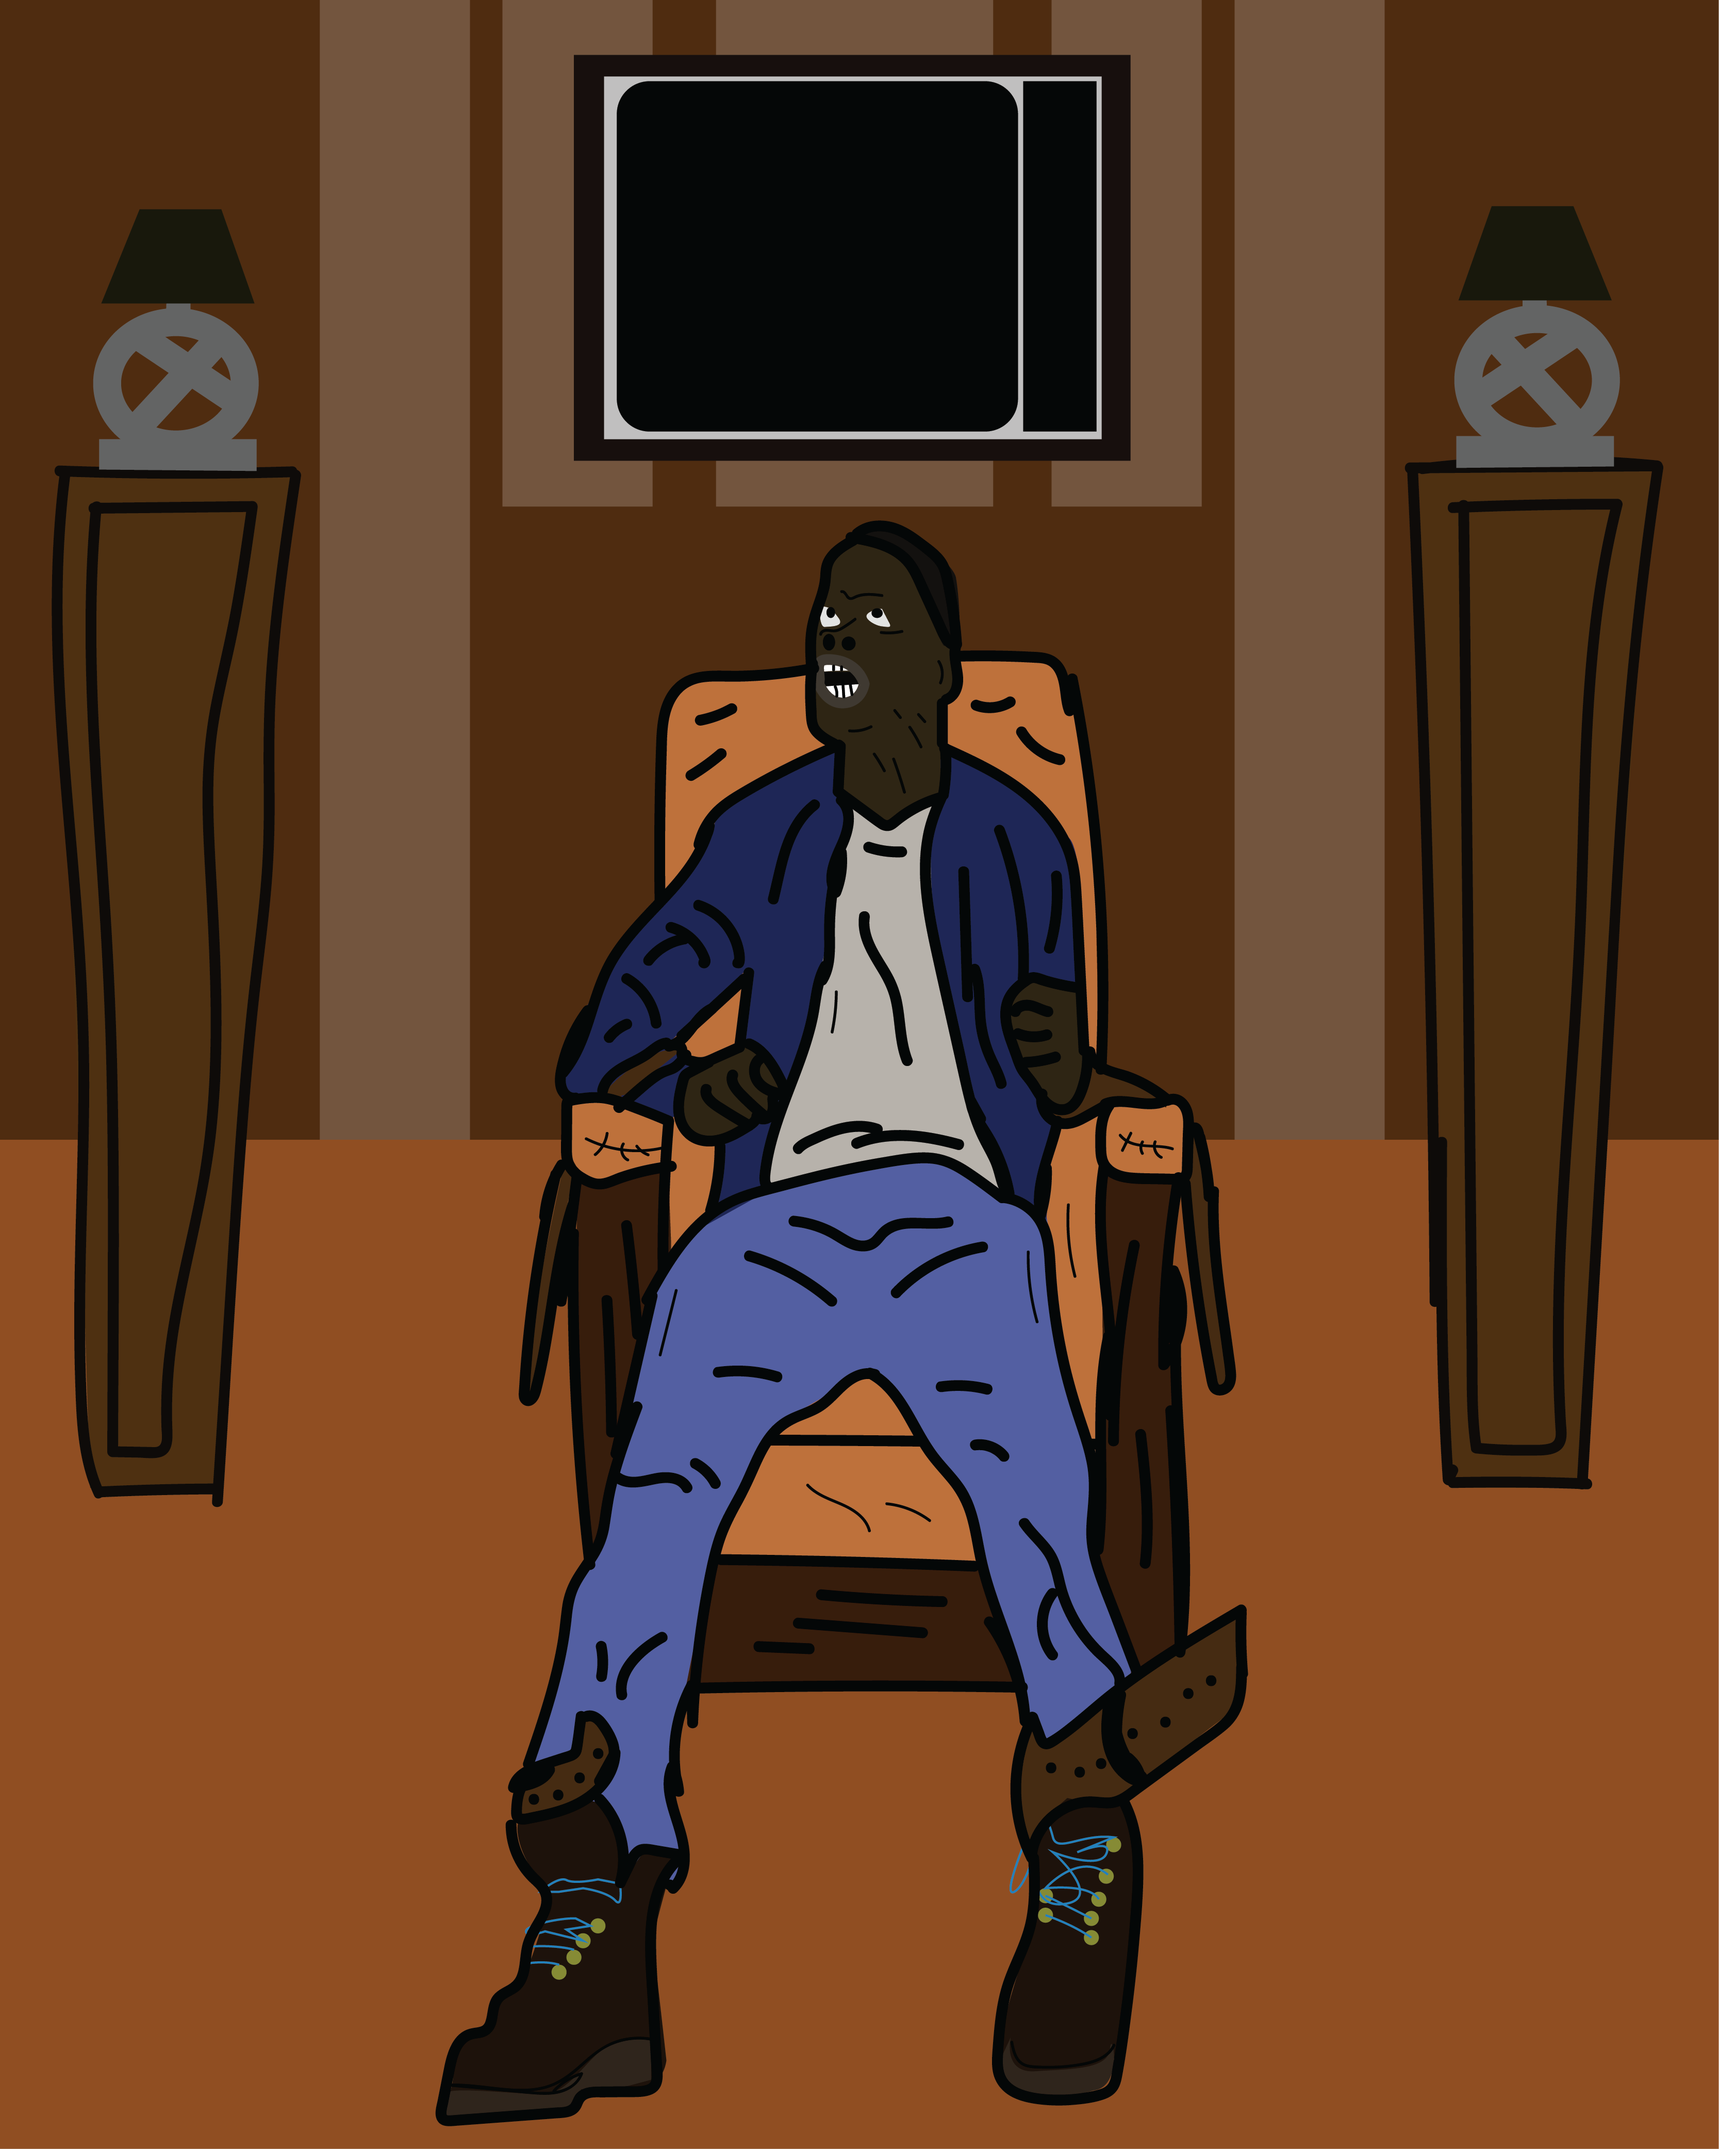
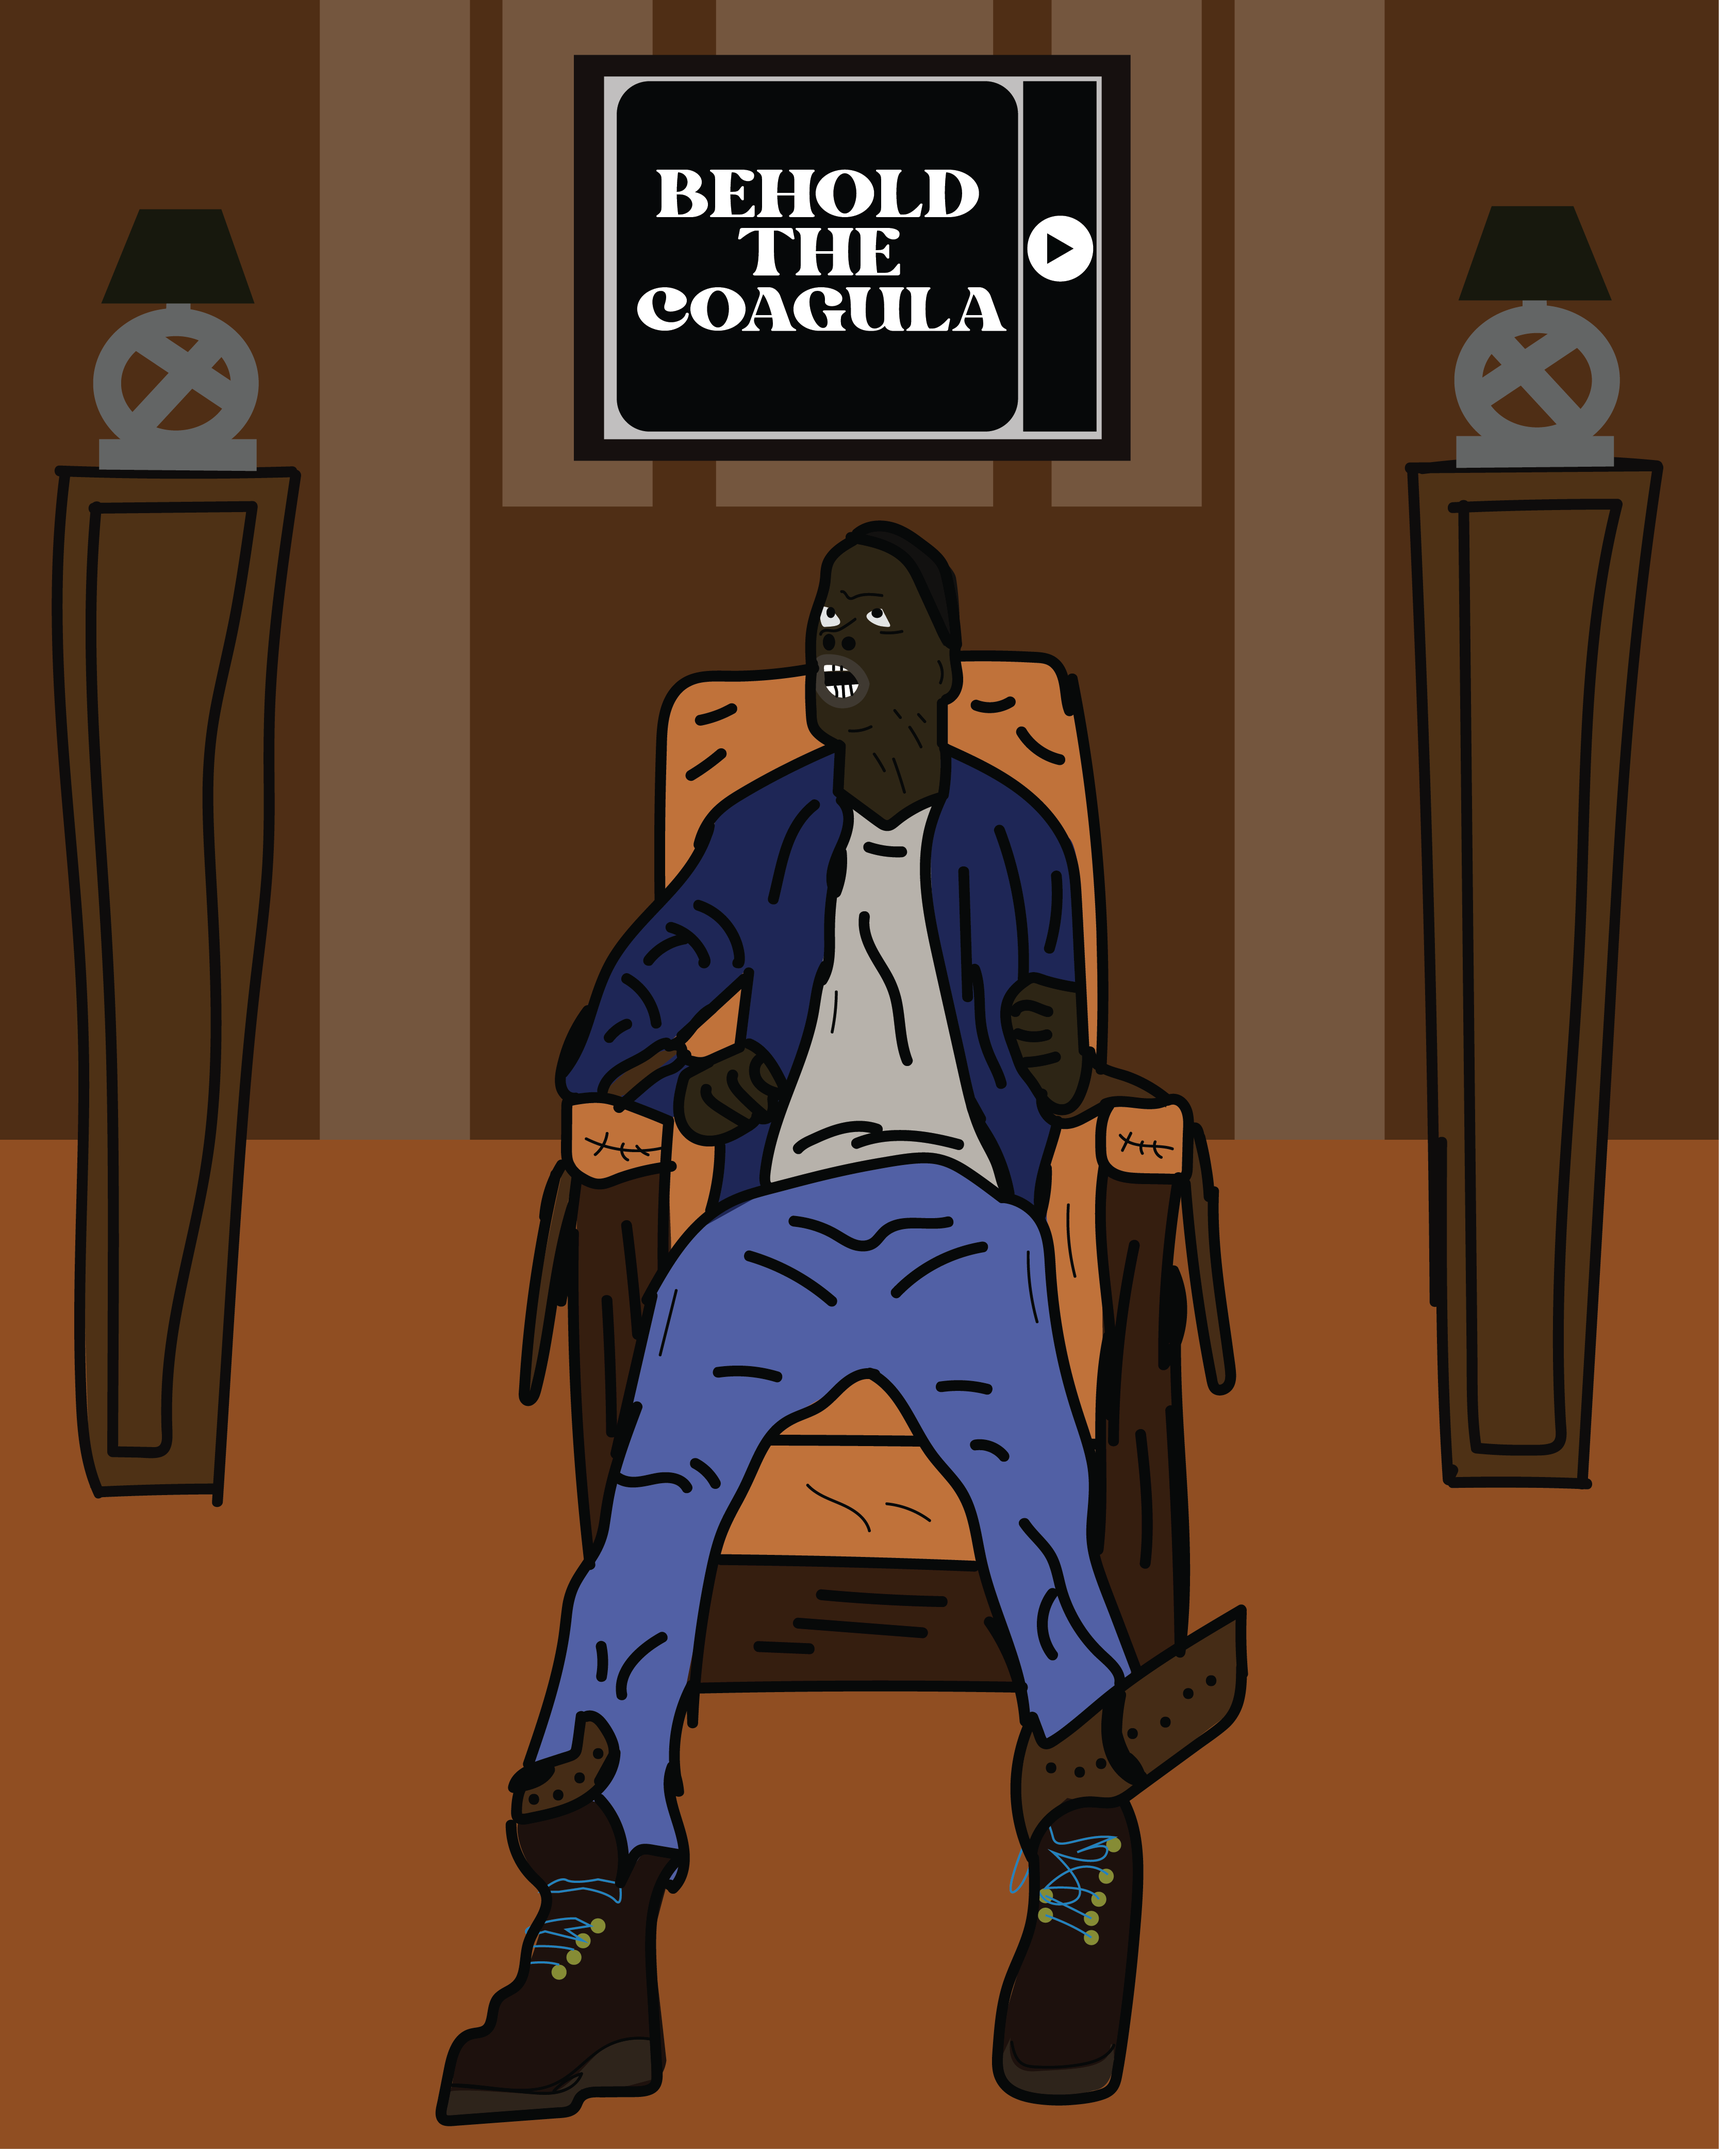
P1 Preparing the tv to have its own state.

Changed region(s): [[0.3743, 0.0624, 0.6551, 0.156]]

diff --git a/Projects/project1/js/States/Basement.js b/Projects/project1/js/States/Basement.js
@@ -1,6 +1,5 @@
 //This class contains the basement info and interaction
 //Display the basement as an animation flickering between both images
-//Display the cube on the tv screen
 class Basement extends Universal {
   constructor (w, h, x, y, basementImage1, basementImage2) {
     //extend from the universal class
@@ -10,12 +9,12 @@ class Basement extends Universal {
     this.basementImage1 = basementImage1;
     this.basementImage2 = basementImage2;
 
-    //Left Arm Constraints
-    this.leftArm = {
-      x: 262,
-      x2: 363,
-      y: 350,
-      y2: 530,
+    //tv Constraints
+    this.tv = {
+      x: 268,
+      x2: 528,
+      y: 0,
+      y2: 220,
     };
   }
 
@@ -31,11 +30,14 @@ class Basement extends Universal {
     pop();
   }
 
-  //mouse functionality
+  //mouse clicked functionality
   mouseClicked() {
-    if (mouseX > this.leftArm.x && mouseX < this.leftArm.x2 ) {
-      if (mouseY > this.leftArm.y && mouseY < this.leftArm.y2) {
-        state = 'UntieLeftArm';
+    //Calculate the tv's position
+    if (mouseX > this.tv.x && mouseX < this.tv.x2) {
+      if (mouseY > this.tv.y && mouseY < this.tv.y2) {
+        //console.log('tv');
+        //Switch states
+        state = 'Tv';
       }
     }
   }

diff --git a/Projects/project1/js/States/Boots.js b/Projects/project1/js/States/Boots.js
@@ -49,7 +49,7 @@ class Boots extends Universal {
   keyPressed() {
     //W key
     if (keyCode === 87 && this.goalMet === false) {
-      //Check if the D key is pressed to display this image
+      //Check if the W key is pressed to display this image
       this.currentImage = this.bootsImage2;
       //Add a progress point when this key is pressed
       this.progress = this.progress + this.addProgress;
@@ -58,7 +58,7 @@ class Boots extends Universal {
     }
     //S key
     else if (keyCode === 83 && this.goalMet === false) {
-      //Check if the A key is pressed to display the image
+      //Check if the S key is pressed to display the image
       this.currentImage = this.bootsImage1;
       //Add a progress point when this key is pressed
       this.progress = this.progress + this.addProgress;
